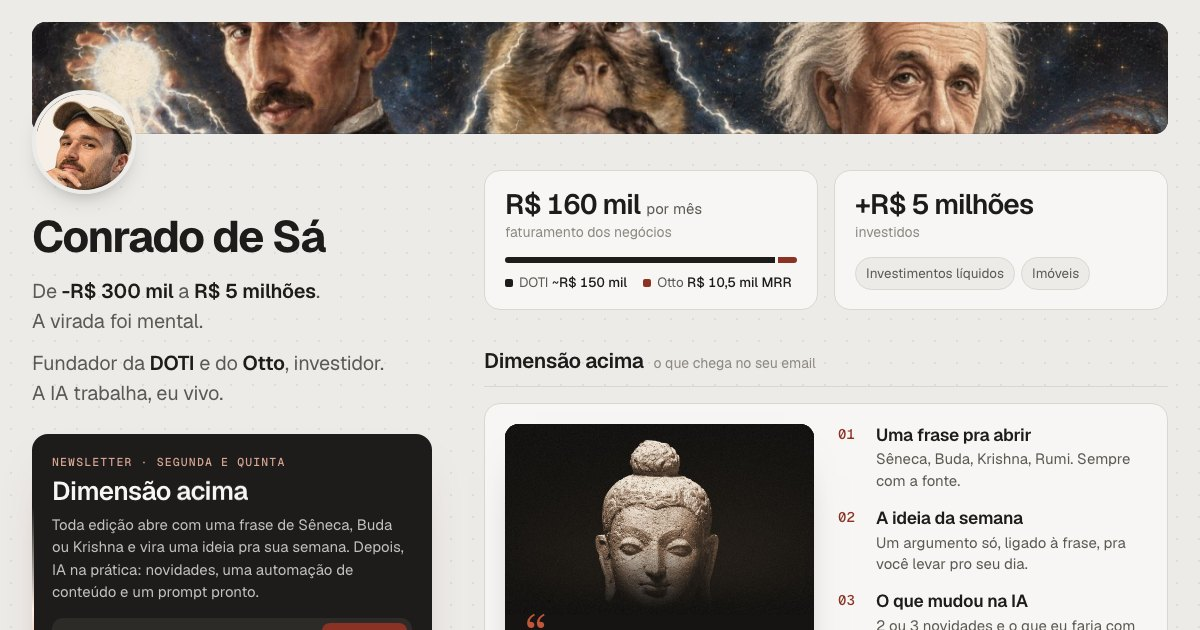
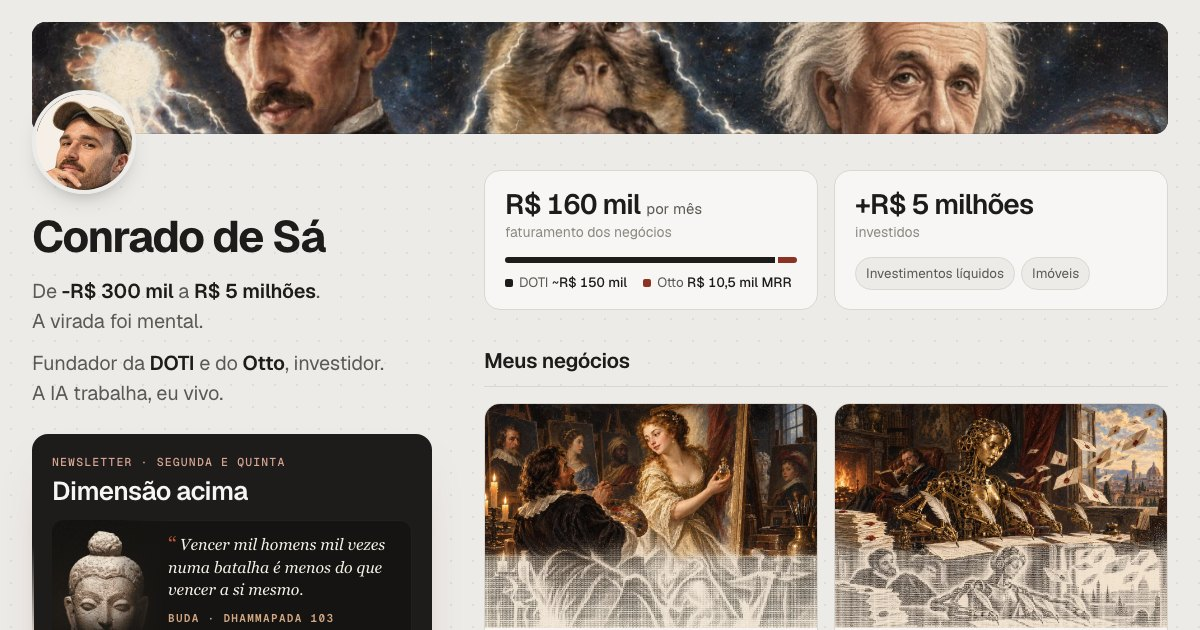
site: figuras da newsletter dentro do cartão da esquerda; sai o bloco repetido da direita

Changed region(s): [[0.4008, 0.6333, 0.9867, 1.0], [0.0308, 0.8143, 0.37, 1.0], [0.4008, 0.5429, 0.6783, 0.6032]]

diff --git a/links/index.html b/links/index.html
@@ -89,33 +89,22 @@ background-image:radial-gradient(rgba(29,28,26,.07) 1px,transparent 1.4px);backg
 .paises{display:flex;flex-wrap:wrap;gap:8px;margin-top:16px}
 .paises span{padding:7px 12px;border-radius:999px;border:1px solid var(--linha);background:var(--fundo);font-size:14px}
 .paises span.morei{background:var(--tinta);color:var(--cartao);border-color:var(--tinta)}
-.ed{display:grid;grid-template-columns:minmax(0,1fr) minmax(0,1fr);gap:22px 24px;align-items:start}
-.capa{border-radius:14px;overflow:hidden;background:#151412;color:#f7f2e8;box-shadow:0 22px 44px -30px rgba(0,0,0,.6)}
-.capa .slides{display:grid}
-.capa figure{grid-area:1/1;margin:0;opacity:0;visibility:hidden;transition:opacity 1s ease,visibility 0s 1s}
-.capa figure.on{opacity:1;visibility:visible;transition:opacity 1s ease}
-.capa img{width:100%;height:auto;aspect-ratio:1160/720;object-fit:cover;background:#151412}
-.capa .q{padding:0 20px 14px;margin-top:-4px}
-.capa .q::before{content:"“";display:block;height:22px;font:400 54px/.9 Georgia,'Times New Roman',serif;color:#c0563a}
-.capa blockquote{margin:4px 0 12px;font:italic 400 19px/1.42 Georgia,'Times New Roman',serif;text-wrap:pretty}
-.capa figcaption{font:600 11.5px/1.4 var(--mono);letter-spacing:.14em;text-transform:uppercase;color:#d3a784}
-.capa .pontos{display:flex;gap:6px;padding:4px 20px 18px}
-.capa .pontos i{display:block;width:6px;height:6px;border-radius:3px;background:rgba(247,242,232,.22);transition:width .5s,background .5s}
-.capa .pontos i.on{width:18px;background:#d3a784}
-.partes{margin:0;padding:0;list-style:none;counter-reset:p;display:grid;gap:15px}
-.partes li{counter-increment:p;display:grid;grid-template-columns:30px minmax(0,1fr);column-gap:8px}
-.partes li::before{content:counter(p,decimal-leading-zero);font:500 14px/1.55 var(--mono);color:var(--acento)}
-.partes b{display:block;font:600 17.5px/1.3 var(--sans);letter-spacing:-.015em}
-.partes span{display:block;margin-top:2px;font-size:15px;line-height:1.45;color:var(--tinta2)}
-.ed-acoes{grid-column:1/-1;display:flex;flex-wrap:wrap;align-items:center;gap:10px;padding-top:16px;border-top:1px solid var(--linha)}
-.ed-acoes a{display:inline-flex;align-items:center;padding:11px 18px;border-radius:10px;font:600 15px var(--sans);transition:filter .2s,transform .2s}
-.ed-acoes a:hover{filter:brightness(1.08)}.ed-acoes a:active{transform:scale(.97)}
-.ed-acoes .p{background:var(--acento);color:#fff}
-.ed-acoes .s{background:var(--fundo);border:1px solid var(--linha);color:var(--tinta)}
-.ed-acoes small{font-size:14px;color:var(--cinza)}
+.news .capa{position:relative;margin-top:14px;border-radius:12px;overflow:hidden;background:#151412;box-shadow:inset 0 0 0 1px rgba(247,242,232,.06)}
+.news .slides{display:grid}
+.news .capa figure{grid-area:1/1;margin:0;display:grid;grid-template-columns:112px minmax(0,1fr);opacity:0;visibility:hidden;transition:opacity 1s ease,visibility 0s 1s}
+.news .capa figure.on{opacity:1;visibility:visible;transition:opacity 1s ease}
+.news .capa img{width:100%;height:100%;min-height:132px;object-fit:cover;object-position:50% 34%;
+-webkit-mask-image:linear-gradient(90deg,#000 55%,transparent);mask-image:linear-gradient(90deg,#000 55%,transparent)}
+.news .capa .q{align-self:center;padding:14px 16px 26px 4px}
+.news .capa blockquote{margin:0 0 9px;font:italic 400 16px/1.42 Georgia,'Times New Roman',serif;color:#f7f2e8;text-wrap:pretty}
+.news .capa blockquote::before{content:"“";margin-right:3px;font:400 1.35em/0 Georgia,serif;vertical-align:-.12em;color:#c0563a}
+.news .capa figcaption{font:600 11px/1.35 var(--mono);letter-spacing:.12em;text-transform:uppercase;color:#d3a784}
+.news .capa .pontos{position:absolute;left:128px;bottom:12px;display:flex;gap:5px}
+.news .capa .pontos i{display:block;width:5px;height:5px;border-radius:3px;background:rgba(247,242,232,.22);transition:width .5s,background .5s}
+.news .capa .pontos i.on{width:15px;background:#d3a784}
 footer{max-width:1200px;margin:24px auto 36px;padding:0 32px;font:400 13.5px var(--sans);color:var(--cinza)}
 @media (max-width:900px){.wrap{grid-template-columns:minmax(0,1fr);gap:10px;padding:0 18px 30px}.perfil{position:static;margin-top:-34px}
-.negs,.inv,.yt,.stats,.ed{grid-template-columns:1fr}.banner{padding:0 18px;margin-top:16px}.banner .img{height:88px;border-radius:12px}.banner img{object-position:50% 18%}
+.negs,.inv,.yt,.stats{grid-template-columns:1fr}.banner{padding:0 18px;margin-top:16px}.banner .img{height:88px;border-radius:12px}.banner img{object-position:50% 18%}
 .avatar{width:84px;height:84px}.perfil h1{font-size:38px}.lead{font-size:18.5px}.yt-mais{grid-template-columns:1fr 1fr}.yt-mais a:last-child{display:none}footer{padding:0 18px}.redes{gap:10px 16px;font-size:15px}.redes svg{width:16px;height:16px}}
 
 
@@ -189,7 +178,7 @@ background:linear-gradient(180deg,transparent 42%,rgba(255,246,228,.32) 50%,tran
     <h1>Conrado de Sá</h1>
     <p class="lead">De <b>-R$ 300 mil</b> a <b>R$ 5 milhões</b>.<br>A virada foi mental.</p>
     <p class="lead">Fundador da <b>DOTI</b> e do <b>Otto</b>, investidor.<br>A IA trabalha, eu vivo.</p>
-    <div class="news" id="assinar"><div class="rot">NEWSLETTER · SEGUNDA E QUINTA</div><b>Dimensão <span class="acima">acima</span></b><p>Toda edição abre com uma frase de Sêneca, Buda ou Krishna e vira uma ideia pra sua semana. Depois, IA na prática: novidades, uma automação de conteúdo e um prompt pronto.</p><form class="campo" novalidate><input type="email" name="email" inputmode="email" autocomplete="email" placeholder="seu@email.com" aria-label="Seu email" required><input class="isca" type="text" name="website" tabindex="-1" autocomplete="off" aria-hidden="true"><button type="submit">Assinar</button></form><p class="nota" role="status" hidden></p><p class="ok" hidden>Pronto. A primeira edição chega no seu email.</p><small><i class="vivo"></i><span data-count="315">315</span> leitores · grátis · <a href="https://condzmethod.com/privacidade.html">privacidade</a></small></div>
+    <div class="news"><div class="rot">NEWSLETTER · SEGUNDA E QUINTA</div><b>Dimensão <span class="acima">acima</span></b><div class="capa" aria-label="Toda edição abre com uma frase e o retrato de quem disse"><div class="slides"><figure class="on"><img src="img/autores/buda.jpg" alt="Buda"><div class="q"><blockquote>Vencer mil homens mil vezes numa batalha é menos do que vencer a si mesmo.</blockquote><figcaption>buda · dhammapada 103</figcaption></div></figure><figure class=""><img src="img/autores/seneca.jpg" alt="Sêneca" loading="lazy"><div class="q"><blockquote>Quem está em toda parte não está em lugar nenhum.</blockquote><figcaption>sêneca · cartas a lucílio, 2</figcaption></div></figure><figure class=""><img src="img/autores/krishna.jpg" alt="Krishna e Arjuna" loading="lazy"><div class="q"><blockquote>Você tem direito à ação, mas nunca aos frutos dela.</blockquote><figcaption>krishna · bhagavad gita 2.47</figcaption></div></figure></div><div class="pontos" aria-hidden="true"><i class="on"></i><i class=""></i><i class=""></i></div></div><p>Uma frase pra abrir, uma ideia pra sua semana e IA na prática: novidades, automação de conteúdo e um prompt pronto.</p><form class="campo" novalidate><input type="email" name="email" inputmode="email" autocomplete="email" placeholder="seu@email.com" aria-label="Seu email" required><input class="isca" type="text" name="website" tabindex="-1" autocomplete="off" aria-hidden="true"><button type="submit">Assinar</button></form><p class="nota" role="status" hidden></p><p class="ok" hidden>Pronto. A primeira edição chega no seu email.</p><small><i class="vivo"></i><span data-count="315">315</span> leitores · grátis · <a href="https://condzmethod.com/privacidade.html">privacidade</a></small></div>
     <div class="redes"><a href="https://x.com/condzxyz"><svg viewBox="0 0 24 24" fill="currentColor"><path d="M17.75 3h3.07l-6.7 7.66L22 21h-6.17l-4.83-6.32L5.47 21H2.4l7.17-8.2L2 3h6.33l4.37 5.78L17.75 3Z"/></svg><b data-count="42.3" data-dec="1" data-suf=" mil">42,3 mil</b><span>X</span></a><a href="https://www.youtube.com/@conradodesa3"><svg viewBox="0 0 24 24" fill="currentColor"><path d="M23 7.2a3 3 0 0 0-2.1-2.1C19 4.6 12 4.6 12 4.6s-7 0-8.9.5A3 3 0 0 0 1 7.2 31 31 0 0 0 .6 12c0 1.6.1 3.2.4 4.8a3 3 0 0 0 2.1 2.1c1.9.5 8.9.5 8.9.5s7 0 8.9-.5a3 3 0 0 0 2.1-2.1c.3-1.6.4-3.2.4-4.8s-.1-3.2-.4-4.8ZM9.8 15.1V8.9l5.4 3.1-5.4 3.1Z"/></svg><b data-count="6.8" data-dec="1" data-suf=" mil">6,8 mil</b><span>YouTube</span></a><a href="https://www.linkedin.com/in/conradodesa/"><svg viewBox="0 0 24 24" fill="currentColor"><path d="M4.98 3.5a2.5 2.5 0 1 1 0 5 2.5 2.5 0 0 1 0-5ZM3 9.75h4V21H3V9.75Zm6.5 0h3.83v1.54h.06c.53-1 1.84-2.06 3.79-2.06 4.05 0 4.8 2.67 4.8 6.13V21h-4v-5.08c0-1.21-.02-2.77-1.69-2.77-1.69 0-1.95 1.32-1.95 2.68V21h-4V9.75Z"/></svg><b data-count="9.2" data-dec="1" data-suf=" mil">9,2 mil</b><span>LinkedIn</span></a><a href="https://www.instagram.com/conrado_desa/"><svg viewBox="0 0 24 24" fill="none" stroke="currentColor" stroke-width="1.8"><rect x="3" y="3" width="18" height="18" rx="5"/><circle cx="12" cy="12" r="4"/></svg><b data-count="895">895</b><span>Instagram</span></a></div>
   </aside>
   <main class="col">
@@ -199,15 +188,6 @@ background:linear-gradient(180deg,transparent 42%,rgba(255,246,228,.32) 50%,tran
         <div class="leg"><span>DOTI <b data-count="150" data-pre="~R$ " data-suf=" mil">~R$ 150 mil</b></span><span>Otto <b data-count="10.5" data-dec="1" data-pre="R$ " data-suf=" mil MRR">R$ 10,5 mil MRR</b></span></div></div>
       <div class="stat rv"><div class="v"><span data-count="5" data-pre="+R$ " data-suf=" milhões">+R$ 5 milhões</span></div><div class="r">investidos</div>
         <div class="tags"><span>Investimentos líquidos</span><span>Imóveis</span></div></div>
-    </section>
-    <div class="sec"><h2>Dimensão acima</h2><span class="nota">o que chega no seu email</span></div>
-    <section class="cartao ed rv">
-      <div class="capa" aria-label="O topo de cada edição: uma frase com o retrato de quem disse">
-        <div class="slides"><figure class="on"><img src="img/autores/buda.jpg" alt="Buda" width="1160" height="720"><div class="q"><blockquote>Vencer mil homens mil vezes numa batalha é menos do que vencer a si mesmo.</blockquote><figcaption>buda · dhammapada 103</figcaption></div></figure><figure class=""><img src="img/autores/seneca.jpg" alt="Sêneca" loading="lazy" width="1160" height="720"><div class="q"><blockquote>Quem está em toda parte não está em lugar nenhum.</blockquote><figcaption>sêneca · cartas a lucílio, 2</figcaption></div></figure><figure class=""><img src="img/autores/krishna.jpg" alt="Krishna e Arjuna" loading="lazy" width="1160" height="720"><div class="q"><blockquote>Você tem direito à ação, mas nunca aos frutos dela.</blockquote><figcaption>krishna · bhagavad gita 2.47</figcaption></div></figure></div>
-        <div class="pontos" aria-hidden="true"><i class="on"></i><i class=""></i><i class=""></i></div>
-      </div>
-      <ol class="partes"><li><div><b>Uma frase pra abrir</b><span>Sêneca, Buda, Krishna, Rumi. Sempre com a fonte.</span></div></li><li><div><b>A ideia da semana</b><span>Um argumento só, ligado à frase, pra você levar pro seu dia.</span></div></li><li><div><b>O que mudou na IA</b><span>2 ou 3 novidades e o que eu faria com cada uma.</span></div></li><li><div><b>Uma automação de conteúdo</b><span>O passo a passo, do jeito que eu faço.</span></div></li><li><div><b>O prompt da edição</b><span>Pronto pra copiar e usar.</span></div></li></ol>
-      <div class="ed-acoes"><a class="p" href="#assinar">Assinar grátis</a><a class="s" href="https://built-bot.built-bot.workers.dev/news">Ler as edições</a><small>toda segunda e quinta</small></div>
     </section>
     <div class="sec"><h2>Meus negócios</h2></div>
     <section class="negs"><a class="neg rv" href="https://doti.gg/"><div class="arte"><img src="img/ia/doti.webp" alt="" style="object-position:50% 44%"></div>
@@ -239,6 +219,10 @@ nums.forEach(el=>io.observe(el));
 const figs=document.querySelectorAll('.capa figure'),pts=document.querySelectorAll('.capa .pontos i');let k=0;
 if(figs.length>1)setInterval(()=>{if(document.hidden)return;figs[k].classList.remove('on');pts[k].classList.remove('on');k=(k+1)%figs.length;figs[k].classList.add('on');pts[k].classList.add('on')},6500);})();</script>
 <script>(()=>{'use strict';
+// coluna da esquerda fixa: se for mais alta que a tela, gruda pelo pé (as redes não somem em notebook pequeno)
+const perfil=document.querySelector('.perfil');
+const ajusta=()=>{if(!perfil)return;perfil.style.top=innerWidth<=900?'':Math.min(24,innerHeight-perfil.offsetHeight-24)+'px'};
+ajusta();addEventListener('resize',ajusta);addEventListener('load',ajusta);document.fonts&&document.fonts.ready.then(ajusta);
 const q=new URLSearchParams(location.search);
 const local=location.protocol==='file:'||/^(localhost|127\.|192\.168\.|10\.)/.test(location.hostname);
 const ref=()=>{try{const h=new URL(document.referrer).hostname;for(const[re,n]of[[/instagram/,'ig'],[/(^|\.)t\.co$|twitter|(^|\.)x\.com$/,'x'],[/tiktok/,'tiktok'],[/youtube|youtu\.be/,'youtube'],[/threads/,'threads'],[/linkedin|lnkd/,'linkedin'],[/facebook|fb\.me/,'facebook']])if(re.test(h))return n}catch(e){}return''};
@@ -250,8 +234,6 @@ document.querySelectorAll('a[href]').forEach(a=>{try{const u=new URL(a.getAttrib
 // newsletter: vai pro /lead do built-bot com source "newsletter" (só aceita envio de condzmethod.com)
 const LEAD_URL='https://built-bot.built-bot.workers.dev/lead',CHAVE='espera:newsletter';
 const box=document.querySelector('.news');if(!box)return;
-document.querySelectorAll('a[href="#assinar"]').forEach(a=>a.addEventListener('click',e=>{const i=box.querySelector('input[type=email]');if(!i||box.querySelector('form').hidden)return;
- e.preventDefault();box.scrollIntoView({behavior:'smooth',block:'center'});setTimeout(()=>i.focus({preventScroll:true}),450)}));
 const form=box.querySelector('form'),campo=form.email,botao=form.querySelector('button'),nota=box.querySelector('.nota'),ok=box.querySelector('.ok');
 const mostraOk=t=>{form.hidden=true;nota.hidden=true;ok.hidden=false;if(t)ok.textContent=t};
 const erro=t=>{nota.hidden=false;nota.textContent=t;campo.setAttribute('aria-invalid','true');campo.focus()};
